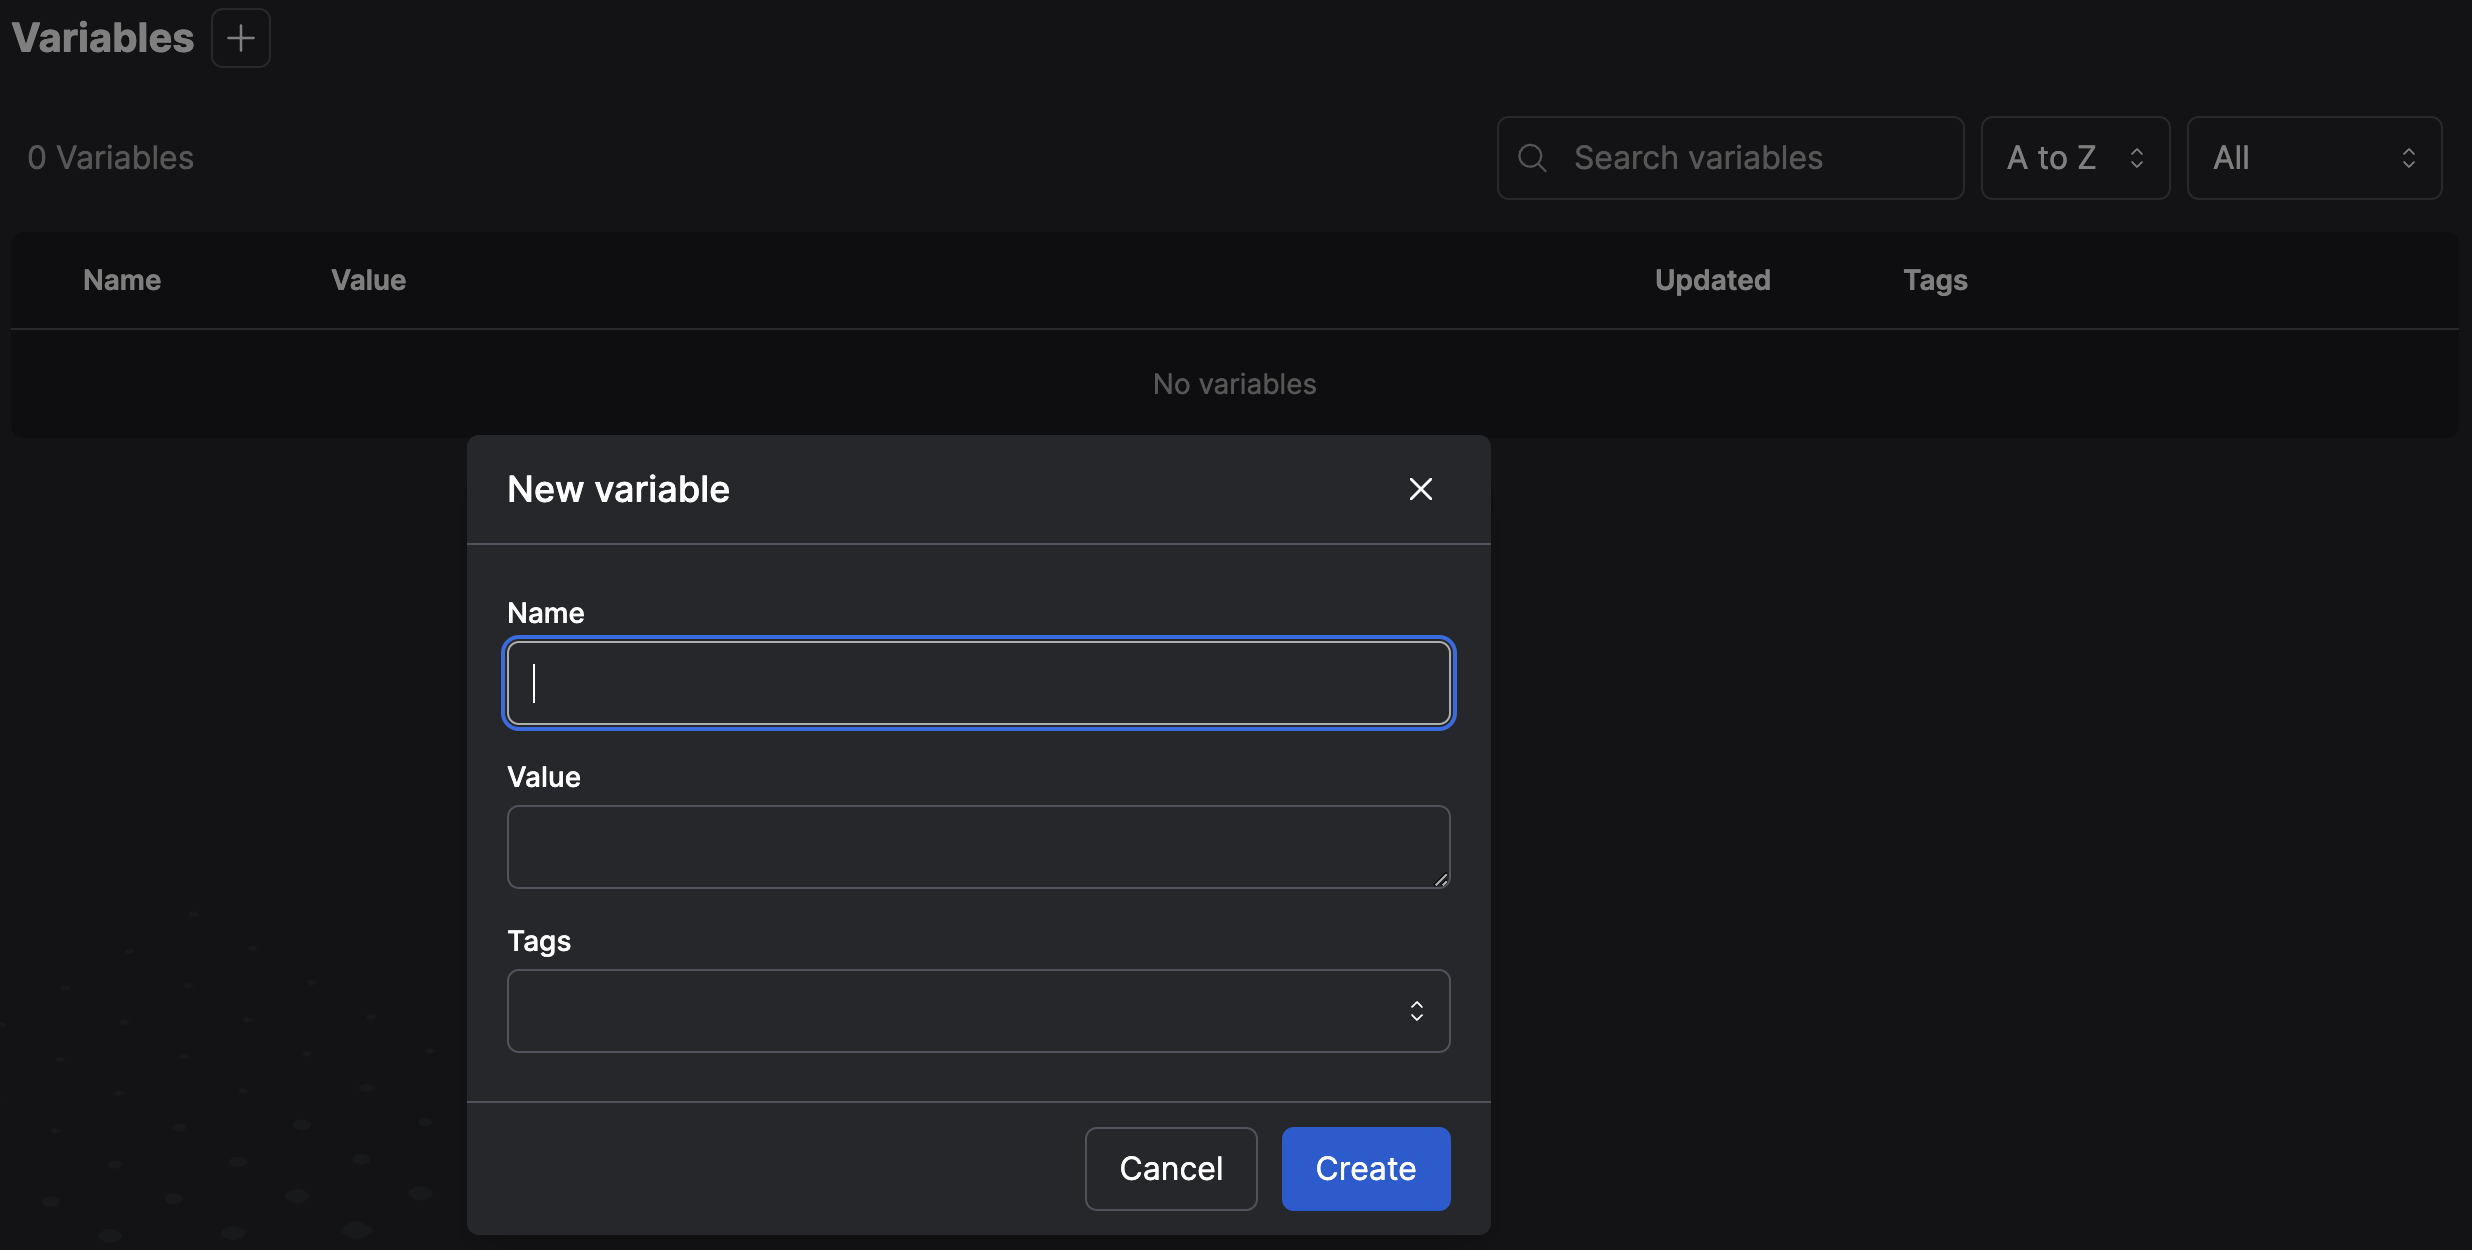
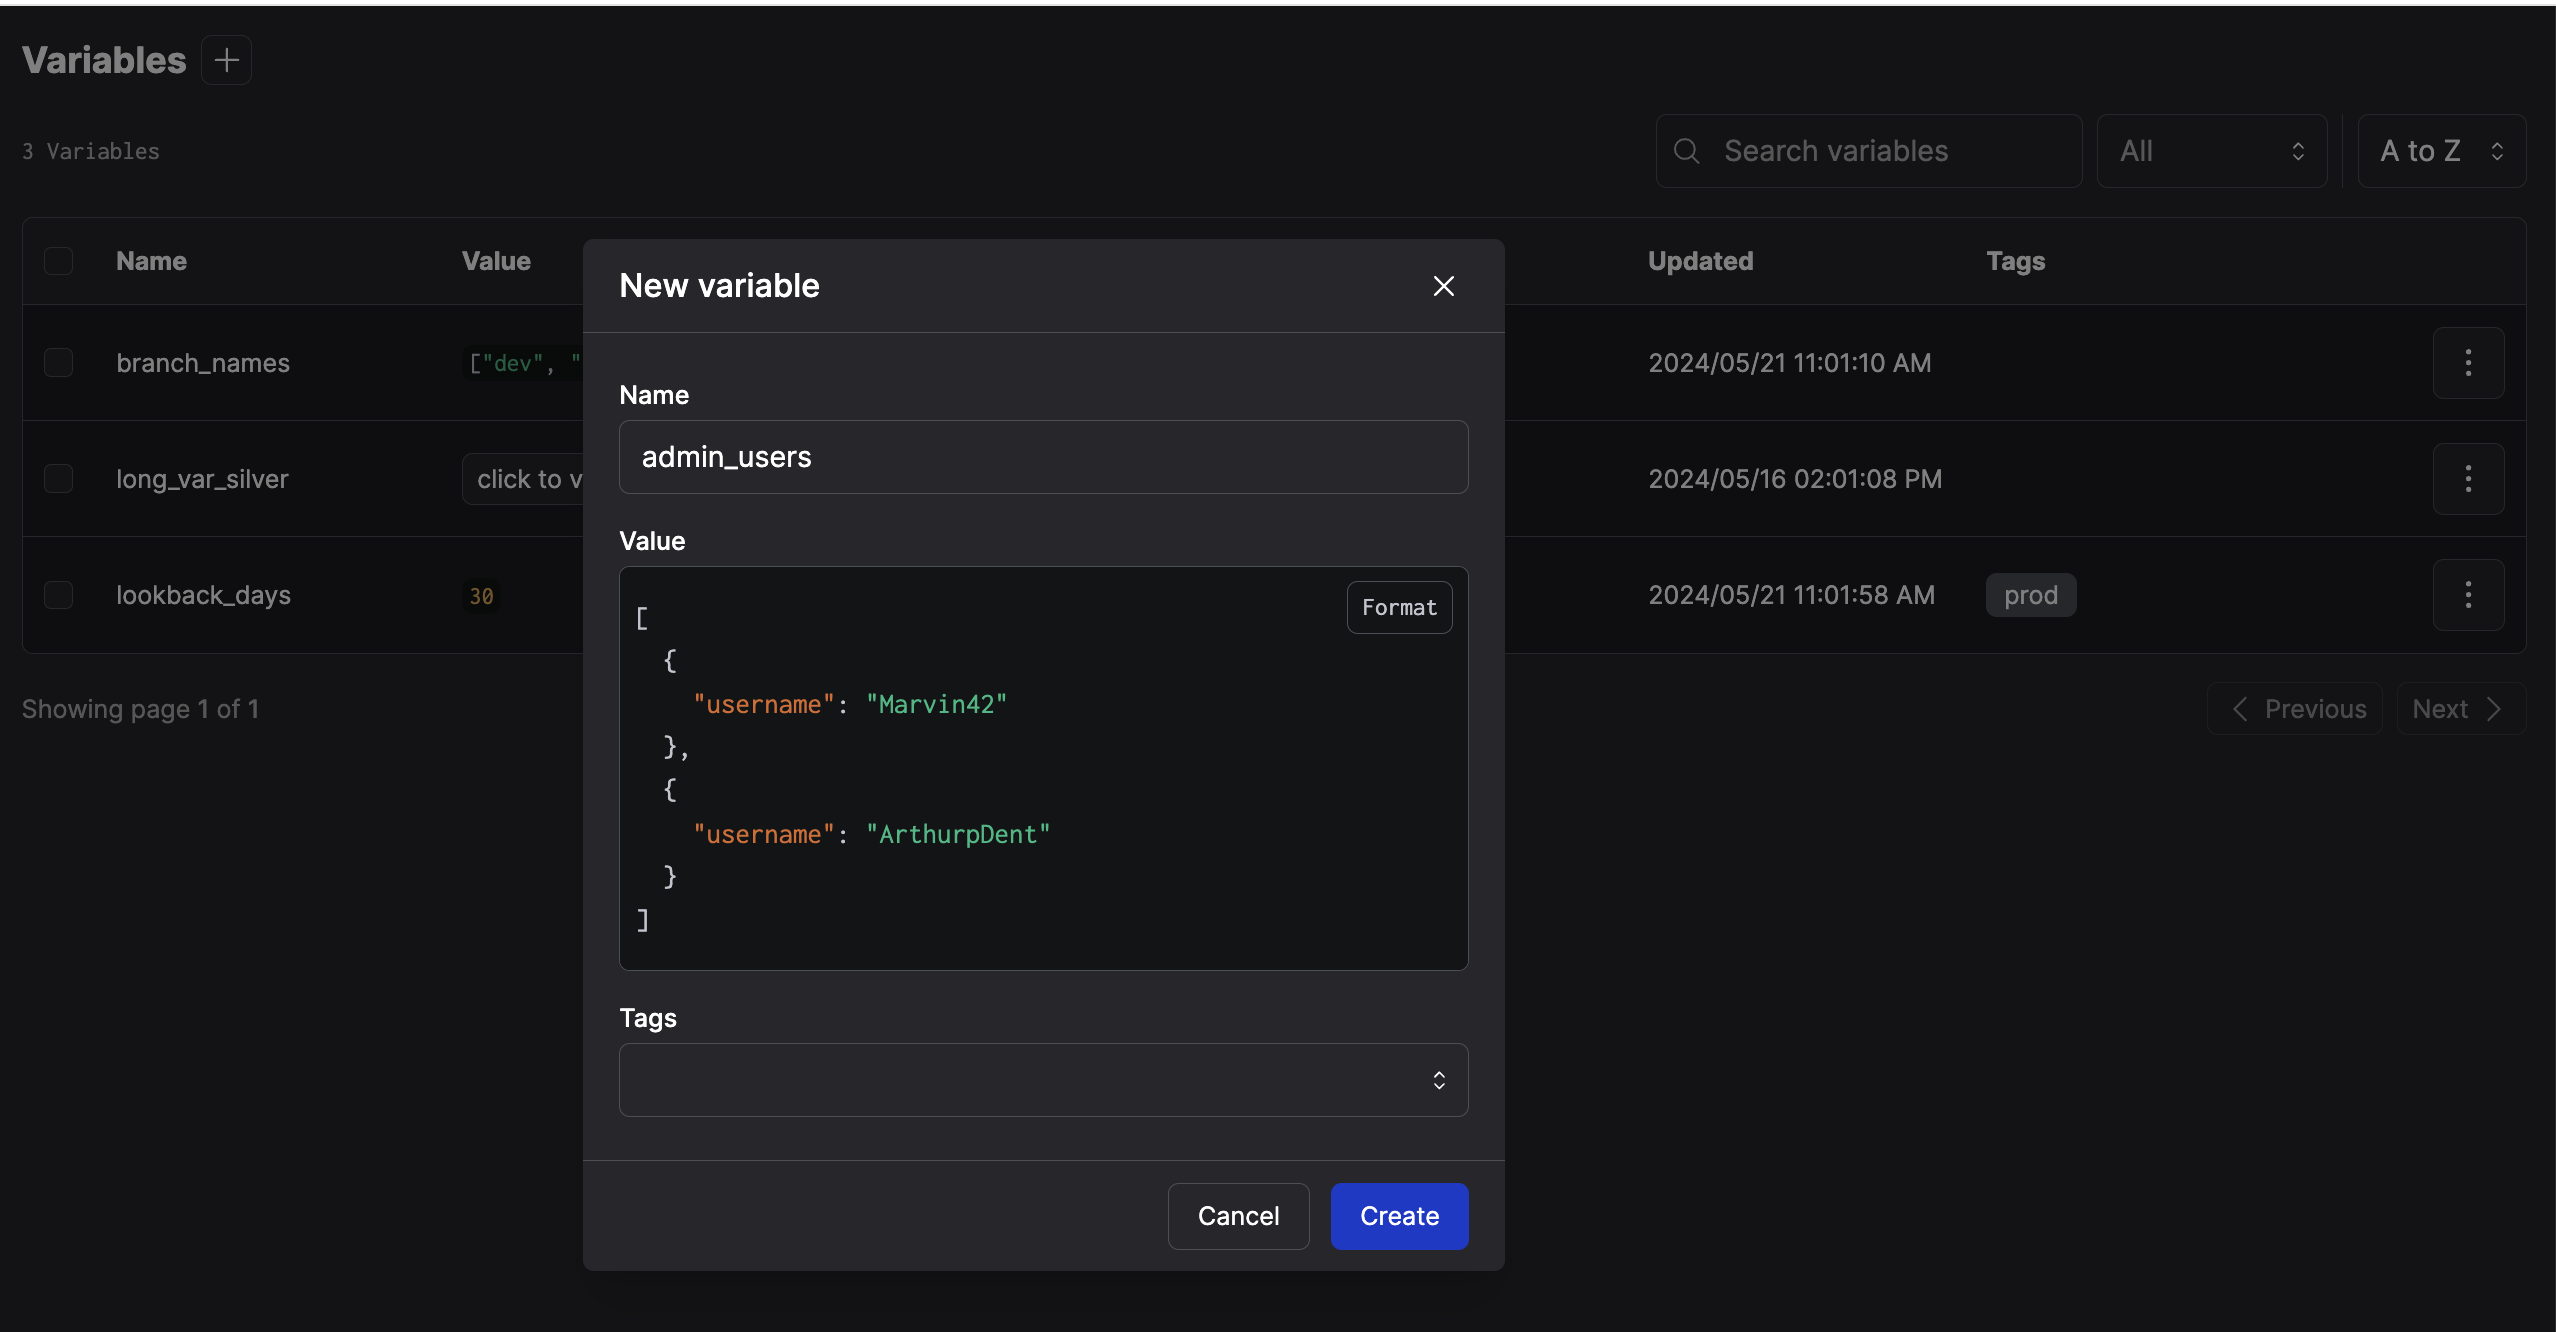
clarifying that variables can be json types, screenhot

diff --git a/docs/guides/variables.md b/docs/guides/variables.md
@@ -9,7 +9,7 @@ search:
 
 # Variables
 
-Variables enable you to store and reuse non-sensitive bits of data, such as configuration information. Variables are named, mutable string values, much like environment variables. Variables are scoped to a Prefect server instance or a single workspace in Prefect Cloud.
+Variables enable you to store and reuse non-sensitive bits of data, such as configuration information. Variables are named, mutable values of any JSON type. Variables are scoped to a Prefect server instance or a single workspace in Prefect Cloud.
 
 Variables are intended for values with infrequent writes and frequent reads, but you can create or modify variables at any time. Variable values may be cached for quicker retrieval.
 
